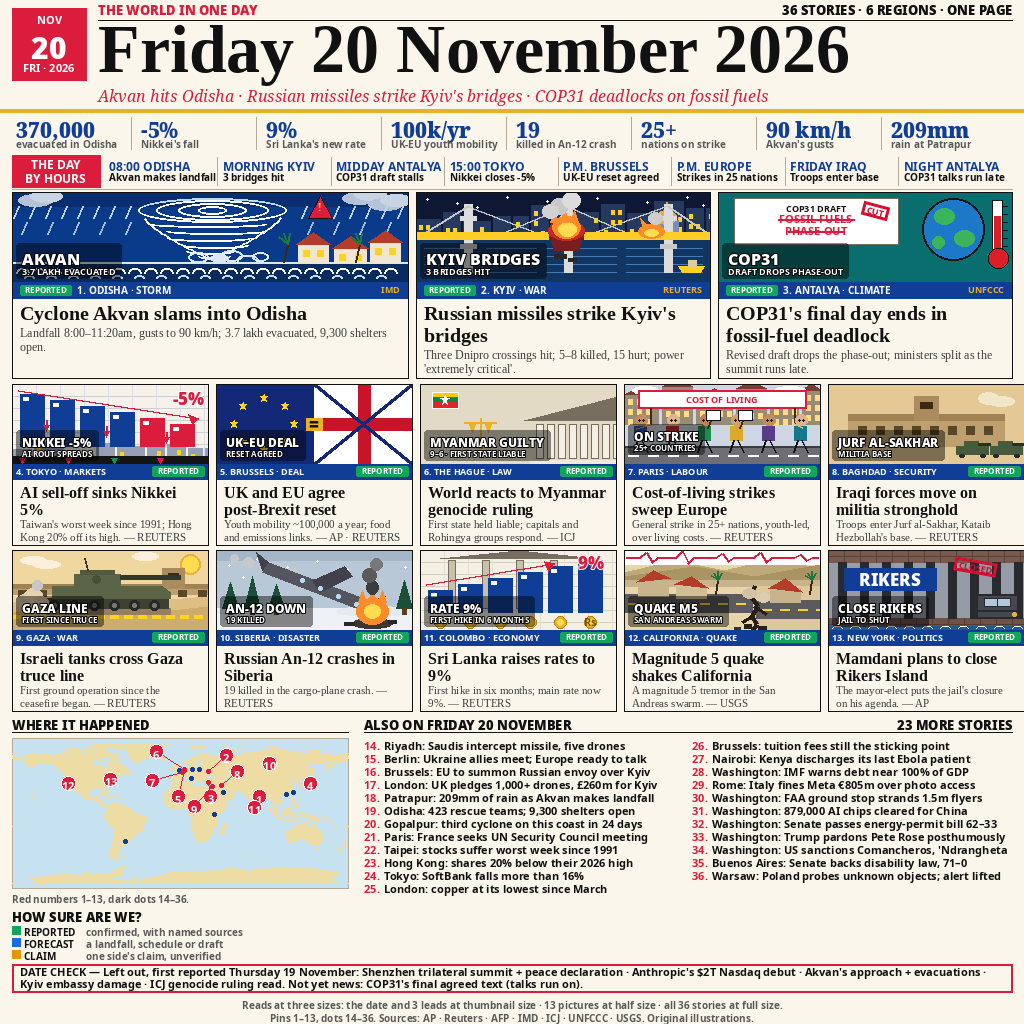
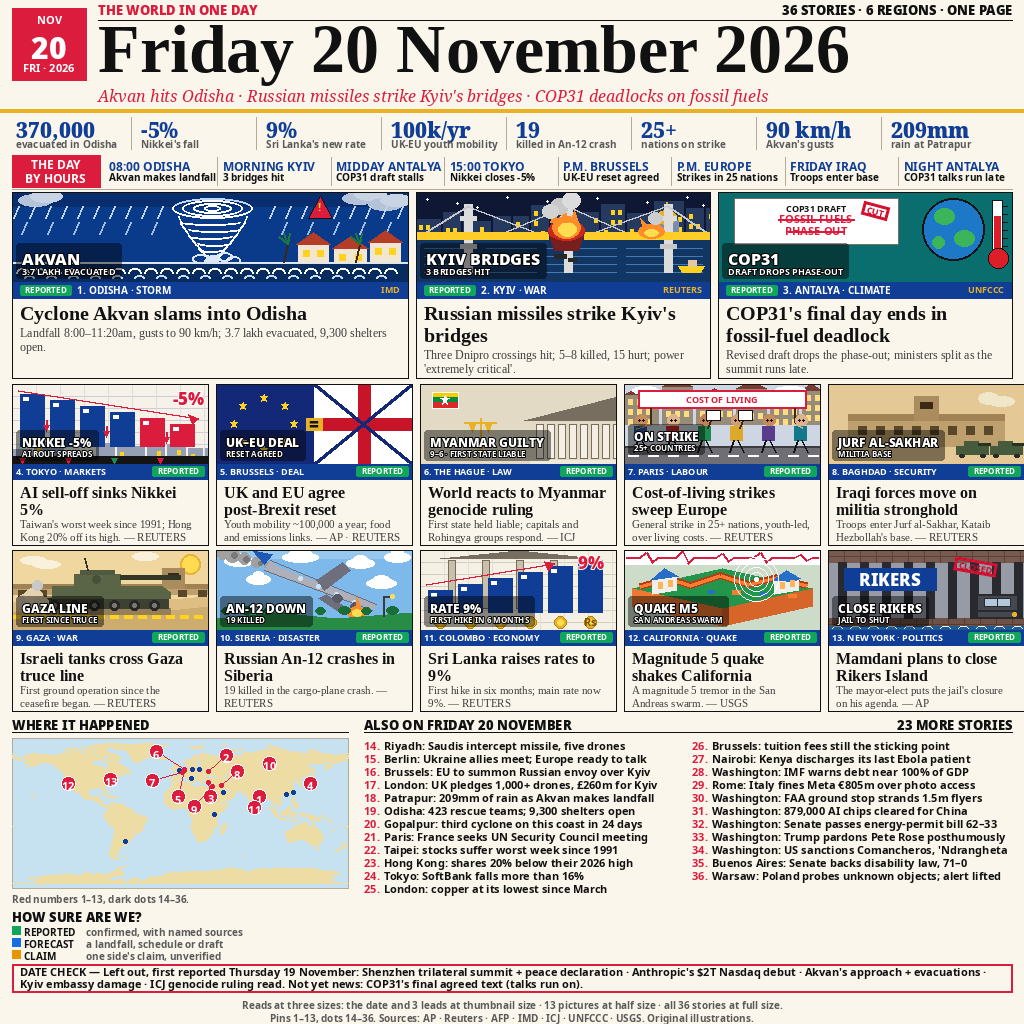
v3.3: slim Akvan tornado; redraw quake + An-12 per user references

Changed region(s): [[0.5938, 0.5312, 0.8125, 0.625], [0.1875, 0.5312, 0.4062, 0.625], [0.125, 0.1875, 0.2812, 0.25]]

diff --git a/draw.py b/draw.py
@@ -335,53 +335,52 @@ def art_image(key, w, h):
             d.ellipse([cx0 + 12, cy0 - 4, cx0 + 44, cy0 + 8],
                       fill=(200, 212, 228))
         # rain streaks across the width, two slants — kept clear of the
-        # funnel zone (x 118-292) so the tornado lines read clean
+        # funnel zone (x 152-252) so the tornado lines read clean
         for rx in range(6, w, 16):
-            if 118 < rx < 292:
+            if 152 < rx < 252:
                 continue
             d.line([rx, 14, rx - 5, 26], fill=(190, 210, 235), width=2)
         for rx in range(14, w, 26):
-            if 118 < rx < 292:
+            if 152 < rx < 252:
                 continue
             d.line([rx, 30, rx - 5, 42], fill=(160, 190, 225), width=2)
-        # v3.2: the cyclone redrawn as a thin line-art tornado, in the
-        # style of the user's reference — a wide flat spiral disc on top,
-        # a funnel tapering to the ground with curved horizontal bands,
-        # and a dust cloud at its base. Original PIL vector lines in
-        # white on the navy storm sky (the reference file itself is not
-        # used anywhere); rain is kept clear of the funnel zone above.
+        # v3.3: the tornado SLIMMED, per the user ("masih terlalu besar
+        # pusarannya") — the v3.2 funnel spanned ~half the hero width;
+        # now a tall narrow funnel like the reference line-art (spiral
+        # disc halved to rx 40, funnel top half-width 34, same 42px
+        # drop). Original PIL vector lines in white on the navy storm
+        # sky; rain is kept clear of the narrower funnel zone above.
         cx = 200
-        # spiral disc: flat concentric ellipses, wide and low
-        for rx, ry in ((74, 12), (56, 10), (34, 7), (14, 4)):
-            d.ellipse([cx - rx, 18 - ry, cx + rx, 18 + ry],
+        # spiral disc: flat concentric ellipses, half the v3.2 width
+        for rx, ry in ((40, 10), (30, 8), (19, 5), (8, 3)):
+            d.ellipse([cx - rx, 16 - ry, cx + rx, 16 + ry],
                       outline="white", width=2)
         # one spiral sweep across the disc, hinting the rotation
-        d.arc([cx - 74, 6, cx + 74, 30], 200, 340,
+        d.arc([cx - 40, 6, cx + 40, 26], 200, 340,
               fill=(190, 215, 240), width=2)
         # funnel edges: two curves from the disc down to a narrow tip
         edge_l, edge_r = [], []
         for i in range(25):
             t = i / 24
-            y = 26 + int(40 * t)
-            hw = 68 - int(64 * (t ** 1.3))
+            y = 24 + int(42 * t)
+            hw = 34 - int(30 * (t ** 1.3))
             edge_l.append((cx - hw, y))
             edge_r.append((cx + hw, y))
         d.line(edge_l, fill="white", width=2, joint="curve")
         d.line(edge_r, fill="white", width=2, joint="curve")
         # curved horizontal bands inside the funnel, alternating drift
-        for by, bhw, bdx in ((32, 58, -4), (39, 50, 4), (46, 42, -3),
-                             (53, 33, 3), (59, 24, -2), (64, 16, 2)):
+        for by, bhw, bdx in ((30, 30, -2), (37, 26, 2), (44, 22, -2),
+                             (51, 17, 2), (57, 13, -1), (62, 9, 1)):
             d.arc([cx + bdx - bhw, by - 3, cx + bdx + bhw, by + 3],
                   0, 180, fill="white", width=2)
         # dust cloud at the funnel's base, straddling the shoreline —
         # kept right of the AKVAN scrim (which ends ~x166) so no puff
         # crosses the "3.7 LAKH EVACUATED" line
-        for px0, py0, pw, ph in ((176, 60, 20, 10), (192, 64, 24, 9),
-                                 (208, 58, 22, 11), (224, 63, 22, 9),
-                                 (240, 60, 16, 9)):
+        for px0, py0, pw, ph in ((180, 62, 16, 9), (192, 65, 18, 8),
+                                 (204, 60, 16, 9), (214, 64, 14, 8)):
             d.ellipse([px0, py0, px0 + pw, py0 + ph],
                       outline=(220, 232, 245), width=2)
-        d.ellipse([198, 62, 216, 70], fill=(220, 232, 245))
+        d.ellipse([194, 63, 208, 70], fill=(220, 232, 245))
         # red warning triangle, moved right of the disc (was tucked
         # against the old spiral's upper arm, now in the disc's way)
         d.polygon([(308, 4), (320, 26), (296, 26)], fill=RED,
@@ -706,56 +705,60 @@ def art_image(key, w, h):
         d.ellipse([22, 46, 36, 58], fill=(220, 200, 165))
         d.ellipse([20, 30, 30, 40], fill=(200, 200, 200))
     elif key == "crash":
-        # v3: DENSITY — a Siberian winter filling the frame: grey sky with
-        # falling snow, a big cargo plane diving nose-down (fuselage, swept
-        # wing, tail, four engines), a long smoke trail, a spiked fireball
-        # + black smoke column where it hits, and a forest of large pines
-        # across the snow.
-        d.rectangle([0, 0, w, h], fill=(185, 200, 215))
-        d.rectangle([0, 0, w, 10], fill=(165, 182, 200))
-        # falling snow across the sky
-        for sx, sy in ((12, 14), (40, 8), (70, 16), (100, 10), (130, 18),
-                       (160, 12), (188, 16), (26, 26), (84, 28), (146, 26)):
-            d.ellipse([sx, sy, sx + 2, sy + 2], fill="white")
-        # the snow ground, full width, with drifts
-        d.rectangle([0, 58, w, h], fill=(238, 242, 246))
-        d.ellipse([0, 56, 70, 66], fill=(228, 234, 240))
-        d.ellipse([120, 56, 196, 66], fill=(228, 234, 240))
-        # smoke trail behind the plane, across the sky
-        for ex, ey, er in ((18, 8, 4), (32, 12, 5), (48, 16, 5),
-                           (62, 20, 6), (76, 24, 6)):
+        # v3.3: redrawn in the style of the user's reference 2 — a blue
+        # sky with white clouds, a grey cartoon plane nose-diving
+        # diagonally (mirrored to dive right, so the nose and the engine
+        # fire stay clear of the AN-12 DOWN scrim at bottom-left), a grey
+        # smoke trail from the tail, a small orange fire on one engine,
+        # and a green treeline along the bottom. Original PIL vector
+        # code; the reference file (watermarked) is not used anywhere.
+        d.rectangle([0, 0, w, h], fill=(125, 185, 235))
+        d.rectangle([0, 0, w, 8], fill=(150, 200, 240))
+        # white clouds across the sky
+        for cx0, cy0, cw in ((8, 6, 30), (66, 2, 36), (130, 8, 28),
+                             (168, 2, 26), (30, 24, 24), (150, 28, 30)):
+            d.ellipse([cx0, cy0, cx0 + cw, cy0 + 10], fill="white")
+            d.ellipse([cx0 + 6, cy0 - 3, cx0 + cw - 6, cy0 + 7],
+                      fill="white")
+        # smoke trail from the tail, growing up-left to the corner
+        for ex, ey, er in ((52, 16, 4), (40, 12, 5), (28, 8, 6),
+                           (16, 5, 7), (6, 3, 6)):
             d.ellipse([ex - er, ey - er, ex + er, ey + er],
-                      fill=(200, 200, 200))
-        # the plane, BIG, diving nose-down to the right: tapered fuselage,
-        # swept wing, tail fin, four engine dots
-        d.polygon([(52, 12), (158, 52), (150, 62), (46, 22)],
-                  fill=(85, 85, 95))
-        d.polygon([(96, 30), (128, 16), (136, 26), (104, 42)],
-                  fill=(65, 65, 75))
-        d.polygon([(52, 12), (40, 2), (46, 20)], fill=(65, 65, 75))
-        d.polygon([(150, 52), (168, 46), (164, 56), (152, 60)],
-                  fill=(65, 65, 75))
-        for ex, ey in ((86, 30), (104, 38), (122, 46), (140, 54)):
-            d.ellipse([ex - 2, ey - 2, ex + 2, ey + 2], fill=(180, 220, 240))
-        # scorch mark on the snow first, then the fireball on top of it
-        d.ellipse([136, 68, 176, 78], fill=(60, 55, 50))
-        # fireball where the nose hits the snow, flame spikes + smoke column
-        d.ellipse([140, 48, 172, 74], fill=(255, 140, 40))
-        d.ellipse([148, 54, 164, 68], fill=(255, 220, 80))
-        for fx, fy in ((146, 50), (156, 46), (166, 50)):
-            d.polygon([(fx - 4, 52), (fx, fy - 10), (fx + 4, 52)],
-                      fill=(255, 140, 40))
-        d.ellipse([150, 30, 162, 44], fill=(60, 60, 60))
-        d.ellipse([146, 18, 160, 32], fill=(90, 90, 90))
-        d.ellipse([154, 8, 166, 20], fill=(120, 120, 120))
-        # debris on the snow
-        d.rectangle([128, 72, 138, 75], fill=(40, 40, 40))
-        d.rectangle([172, 70, 180, 73], fill=(40, 40, 40))
-        # a forest of large pines across the bottom
-        for px, ph in ((6, 26), (28, 32), (52, 24), (180, 28)):
-            d.polygon([(px, 58), (px + 8, 58 - ph), (px + 16, 58)],
-                      fill=(25, 80, 55))
-            d.rectangle([px + 6, 58, px + 10, 64], fill=(90, 60, 30))
+                      fill=(160, 160, 160))
+        for ex, ey, er in ((44, 13, 2), (30, 9, 3), (18, 5, 3)):
+            d.ellipse([ex - er, ey - er, ex + er, ey + er],
+                      fill=(120, 120, 120))
+        # the plane, diving nose-down to the right: a THIN light-grey
+        # fuselage (so it reads as a plane, not a slab), darker swept
+        # wings for contrast, a big blue tail fin, two engines
+        d.polygon([(54, 10), (60, 16), (160, 54), (156, 60), (48, 20)],
+                  fill=(175, 175, 185))
+        d.line([(54, 10), (160, 54)], fill=(110, 110, 120), width=1)
+        d.line([(48, 20), (156, 60)], fill=(110, 110, 120), width=1)
+        # big blue tail fin, like the reference's
+        d.polygon([(48, 14), (36, 0), (56, 4)], fill=(30, 90, 180))
+        d.polygon([(100, 30), (126, 12), (134, 20), (108, 40)],
+                  fill=(110, 110, 125))
+        d.polygon([(110, 44), (134, 60), (126, 64), (102, 48)],
+                  fill=(110, 110, 125))
+        # windows along the fuselage, then the two engine nacelles
+        for ex, ey in ((84, 28), (102, 36), (120, 44), (138, 52)):
+            d.ellipse([ex - 2, ey - 2, ex + 2, ey + 2], fill=(200, 230, 245))
+        d.ellipse([116, 44, 126, 52], fill=(90, 90, 100))
+        d.ellipse([134, 52, 144, 60], fill=(90, 90, 100))
+        # small orange fire on the lower engine, flame spike + yellow core
+        d.ellipse([132, 56, 148, 70], fill=(255, 140, 40))
+        d.ellipse([136, 59, 145, 66], fill=(255, 220, 80))
+        d.polygon([(140, 56), (140, 47), (144, 56)], fill=(255, 140, 40))
+        # green ground + treeline along the bottom, and a lamp post
+        d.polygon([(0, 68), (60, 62), (120, 68), (196, 62), (196, 80),
+                   (0, 80)], fill=(40, 140, 70))
+        for tx, tr in ((10, 5), (30, 6), (52, 5), (78, 6), (104, 5),
+                       (128, 6), (150, 5), (176, 6)):
+            d.ellipse([tx - tr, 62 - tr, tx + tr, 62 + 2], fill=(25, 110, 55))
+        d.line([168, 66, 168, 46], fill=(60, 60, 60), width=2)
+        d.line([168, 46, 176, 46], fill=(60, 60, 60), width=2)
+        d.ellipse([174, 44, 178, 48], fill=(255, 220, 80))
     elif key == "rates":
         # v3: DENSITY — a bank scene, not four bars on blank paper. Full
         # grid, six climbing bars filling the width, a red arrow above
@@ -793,16 +796,16 @@ def art_image(key, w, h):
         d.text((170, 72), "Rs", font=F_ART2_S, fill=(120, 80, 0),
                anchor="mm")
     elif key == "quake":
-        # v3: DENSITY — a California scene filling the frame: the red
-        # seismograph trace across the top, San Andreas hills behind, a
-        # cracked highway with offset lanes, tilted houses and palm trees
-        # on both sides of the crack, dust and rubble.
-        d.rectangle([0, 0, w, h], fill=(232, 214, 170))
-        # hills behind, across the whole back
-        d.polygon([(0, 22), (50, 10), (100, 20), (150, 8), (196, 18),
-                   (196, 26), (0, 26)], fill=(190, 170, 120))
-        d.polygon([(0, 26), (70, 16), (130, 26), (196, 14), (196, 30),
-                   (0, 30)], fill=(170, 148, 100))
+        # v3.3: redrawn in the style of the user's reference 1 — an
+        # isometric earth block filling the frame: pale sage background,
+        # green top surface split by a thick orange zigzag fault crack,
+        # two small houses (one tilted, one with a collapsed roof), thin
+        # white concentric epicentre rings on the crack, debris, and
+        # orange block sides at the bottom. The red seismograph trace
+        # stays across the top; the rings are centred right of the QUAKE
+        # M5 scrim (bottom-left) so the label stays clear. Original PIL
+        # vector code; the reference file is not used anywhere.
+        d.rectangle([0, 0, w, h], fill=(205, 220, 200))
         # the seismograph trace on a white strip across the top
         d.rectangle([0, 0, w, 14], fill="white")
         d.line([(2, 7), (16, 7), (22, 2), (28, 12), (34, 7), (52, 7),
@@ -810,41 +813,42 @@ def art_image(key, w, h):
                 (110, 7), (130, 7), (136, 2), (142, 12), (148, 7),
                 (170, 7), (176, 4), (182, 10), (188, 7), (194, 7)],
                fill=RED, width=2)
-        # the ground: left block full height, right block dropped 6px
-        d.rectangle([0, 30, w, 36], fill=(200, 180, 140))
-        d.rectangle([130, 30, w, 36], fill=(200, 180, 140))
-        d.rectangle([130, 36, w, h], fill=(220, 200, 155))
-        # the highway, offset across the crack: lanes + dashes both sides
-        d.rectangle([0, 44, 128, 62], fill=(90, 90, 95))
-        d.rectangle([132, 50, w, 68], fill=(90, 90, 95))
-        for dx in range(4, 124, 18):
-            d.line([dx, 53, dx + 9, 53], fill=YELLOW, width=2)
-        for dx in range(138, w, 18):
-            d.line([dx, 59, dx + 9, 59], fill=YELLOW, width=2)
-        # the crack, jagged and BOLD, down the boundary, with branches
-        d.line([(130, 36), (126, 46), (133, 56), (127, 66), (132, 74),
-                (128, 80)], fill=(40, 30, 20), width=4)
-        d.line([(130, 56), (142, 64)], fill=(40, 30, 20), width=3)
-        d.line([(128, 66), (118, 72)], fill=(40, 30, 20), width=3)
-        # dust clouds at the crack + rubble at its foot
-        d.ellipse([118, 38, 132, 48], fill=(210, 195, 165))
-        d.ellipse([132, 42, 146, 52], fill=(220, 205, 175))
-        d.rectangle([120, 74, 127, 78], fill=(40, 30, 20))
-        d.rectangle([134, 76, 142, 79], fill=(40, 30, 20))
-        d.rectangle([110, 77, 116, 80], fill=(60, 50, 40))
-        # tilted houses + palms on both sides of the crack
-        d.rectangle([14, 32, 44, 46], fill=(200, 180, 140))
-        d.polygon([(12, 32), (46, 28), (29, 20)], fill=(180, 60, 40))
-        d.rectangle([52, 34, 82, 48], fill=(210, 190, 150))
-        d.polygon([(50, 34), (84, 38), (67, 26)], fill=(180, 60, 40))
-        d.rectangle([146, 38, 176, 52], fill=(200, 180, 140))
-        d.polygon([(144, 38), (178, 42), (161, 28)], fill=(180, 60, 40))
-        for px in (92, 186):
-            d.line([px, 44, px + 2, 30], fill=(60, 40, 20), width=2)
-            for ang in (-60, -30, 0, 30):
-                ex = px + 2 + int(9 * math.cos(math.radians(ang - 90)))
-                ey = 30 + int(9 * math.sin(math.radians(ang - 90)))
-                d.line([px + 2, 30, ex, ey], fill=(30, 120, 60), width=2)
+        # the isometric block: green top, orange sides
+        d.polygon([(8, 38), (98, 18), (188, 38), (98, 58)],
+                  fill=(35, 150, 75))
+        d.polygon([(8, 38), (98, 58), (98, 76), (8, 56)],
+                  fill=(240, 120, 50))
+        d.polygon([(98, 58), (188, 38), (188, 56), (98, 76)],
+                  fill=(215, 100, 40))
+        # thick orange fault crack zigzagging across the top face,
+        # dark-edged ribbon
+        crack = [(16, 36), (44, 28), (66, 35), (96, 25), (124, 34),
+                 (152, 27), (182, 35)]
+        d.line(crack, fill=(180, 60, 20), width=7, joint="curve")
+        d.line(crack, fill=(250, 125, 50), width=4, joint="curve")
+        # two houses: one tilted left, one with a collapsed roof right
+        d.polygon([(28, 30), (52, 26), (52, 40), (28, 44)],
+                  fill=(240, 240, 235))
+        d.polygon([(26, 30), (54, 26), (40, 18)], fill=(40, 110, 200))
+        d.rectangle([34, 32, 38, 38], fill=(255, 180, 90))
+        d.rectangle([44, 30, 48, 36], fill=(255, 180, 90))
+        d.polygon([(150, 30), (174, 26), (174, 40), (150, 44)],
+                  fill=(240, 240, 235))
+        d.polygon([(148, 30), (162, 20), (176, 28), (168, 32),
+                   (156, 30)], fill=(40, 110, 200))
+        d.rectangle([156, 32, 160, 38], fill=(255, 180, 90))
+        d.rectangle([166, 30, 170, 36], fill=(255, 180, 90))
+        # debris on the top face, clear of the scrim
+        d.rectangle([108, 40, 116, 44], fill=(250, 125, 50))
+        d.rectangle([136, 42, 142, 45], fill=(40, 110, 200))
+        d.rectangle([164, 44, 172, 47], fill=(250, 125, 50))
+        d.rectangle([84, 40, 90, 43], fill=(40, 110, 200))
+        # thin white epicentre rings centred on the crack, right side —
+        # drawn last, like the reference's rings over the whole scene
+        for rr in (7, 12, 17, 22):
+            d.ellipse([132 - rr, 29 - rr, 132 + rr, 29 + rr],
+                      outline="white", width=1)
+        d.ellipse([130, 27, 134, 31], fill="white")
     elif key == "rikers":
         # v3: DENSITY — a full cell block, not bars on a grey wall. Brick
         # texture top and bottom, bars across the whole frame, the RIKERS
